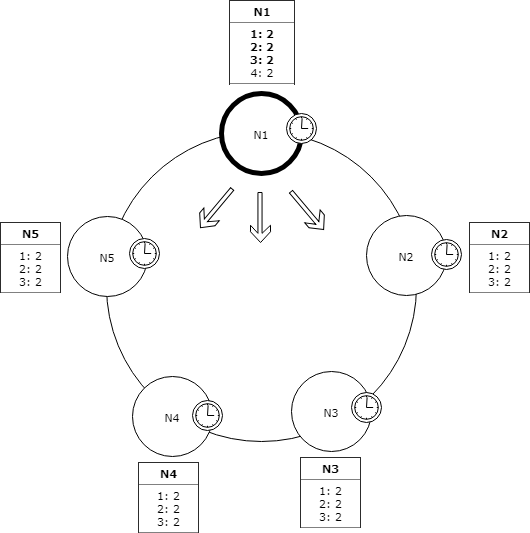
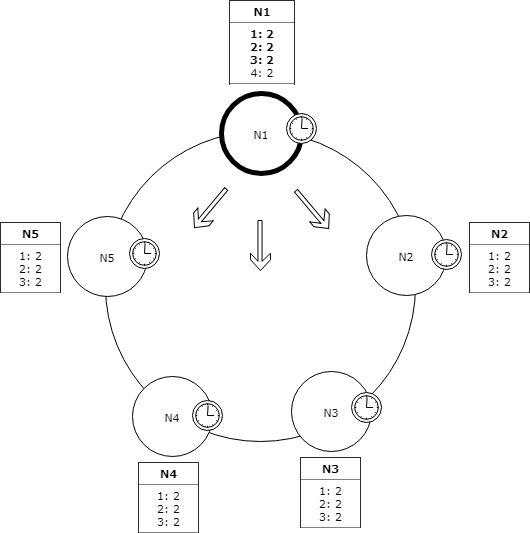
Raft

diff --git a/faultTolerance/theRaftAlgorithm.tex b/faultTolerance/theRaftAlgorithm.tex
@@ -12,11 +12,22 @@ Raft was proposed by Diego Ongaro and John Ousterhout in 2014. The goal was to o
 
 \noindent \textbf{Safety:} Only one leader can be elected for a given term. To ensure consistency, if a server has applied one log entry for an index in its log, then no other server can may apply a different value for the same index. Only a server with the newest log can become leader.
 
-\noindent We will now look at the fundamentals for the protocol. We assume a cluster of five nodes ($N_1$ to $N_5$) participating in our Raft consensus algorithm. All nodes have a randomized timer $T_i$ = (i=1,2...,N).
+\noindent We will now look at the fundamentals for the protocol. We assume a cluster of five servers ($S_1$ to $S_5$) participating in our Raft consensus algorithm. All nodes have a randomized timer $T_i$ = (i=1,2...,N). Figure \ref{fig:raft} shows the topology and how a majority of the followers have received the log entries for index one to three, hence its committed state. The algorithm works the following way:
+
+\begin{itemize}
+	\item 1. The timer of $S_1$ expires first. It starts an election hereby becoming a candidate server, increases the term counter, votes for itself and sends a RPC message to other servers requesting their vote. The current term is included in the message. Servers will vote in  first-come-first-server manner. In case of split votes, Raft simply waits for the timer to timeout, a new term starts and election process repeats.
+	\item 2. $S_1$ received the majority of votes, so it has become leader. It keeps in touch with followers by sending out a heartbeat usually every 150 to 300ms. If followers do not receive a heartbeat regularly, they will start a new election.
+	\item 3. Now log replication starts. The leader $S_1$ saves requests in its log and marks them with the current term. In figure \ref{fig:raft} the log entries are from term two. The leader must now replicate the log to other servers. Every follower keeps track of the next free index in its log, this position will be assigned the value from the leader. For each follower, the leader keeps track of a match index, that indicate to which index in the log both the leader and the follower agree on the state of the system.
+	\item 4. When a majority of followers acknowledge the log entries, they are committed by the leader. For our setup, the majority is three and the minority is two.
+\end{itemize}
+
+\noindent Two inconsistency scenarios can occur, so we will quickly cover those: Imagine our leader $S_1$ goes down, and $S_2$ is elected leader. Meanwhile $S_4$ has been down throughout, so its log is empty. When $S_2$ sends out log replications, called RPC AppendEntries, they include a consistency check. If the next index is three (i=3), it includes information about index two (i=i-1). It asks $S_4$ if it has an entry for i=i-1. $S_4$ replies negatively. This continues until $S_4$ has rolled back its next index pointer to the empty log prefix, since it does not include any entries. From here $S_2$ will repair $S_4$'s log by sending AppendEntries to $S_4$ including information for each index.
+
+\noindent Another scenario is extraneous entries. Before $S_1$ went down, it wrote two entries in its own log, but never committed them. As $S_2$ is the new leader, we are now in term two, so entries from term one are no longer valid. If $S_1$ comes back up, $S_2$ will overwrite $S_1$'s old entries with the newer ones, because it is in a newer term. More details on voting and safety are available in the official paper.
 
 \begin{figure}[H]
 	\centering
-	\includegraphics[scale=0.5]{faultTolerance/fig/Raft.png}
+	\includegraphics[scale=0.4]{faultTolerance/fig/Raft.png}
 	\caption{The topology for our Raft setup. N1 is leader and replicates its state log to follower nodes.}
 	\label{fig:raft}
 \end{figure}
